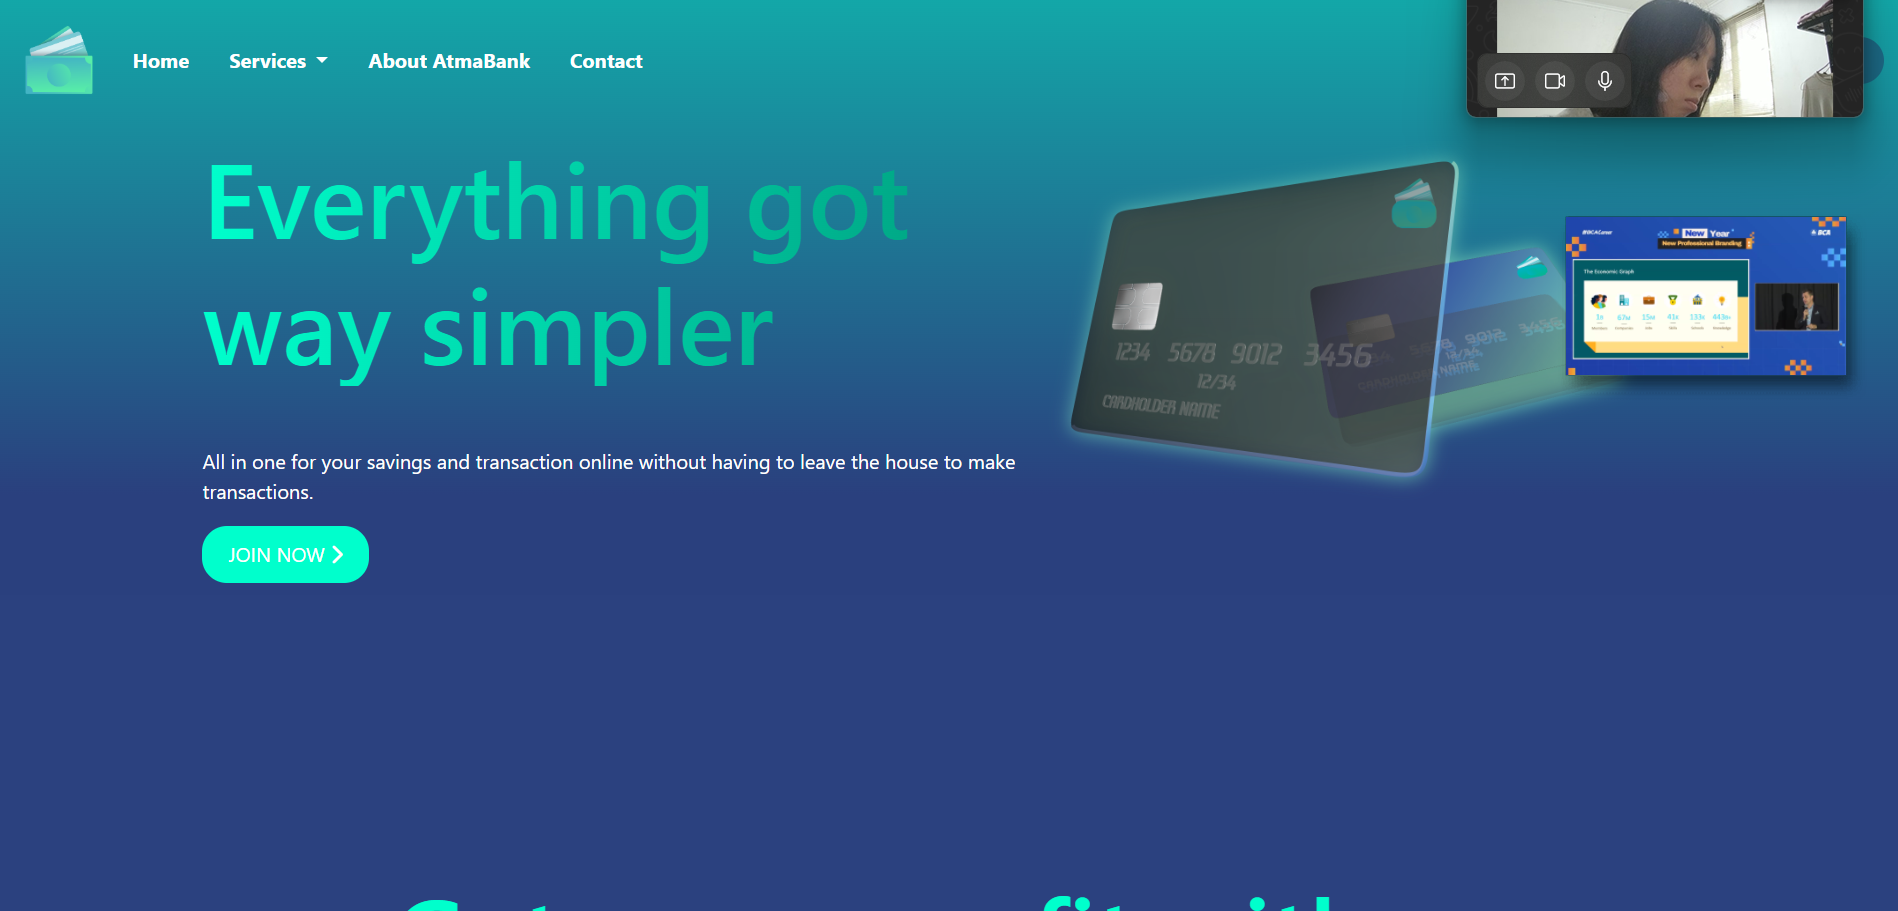
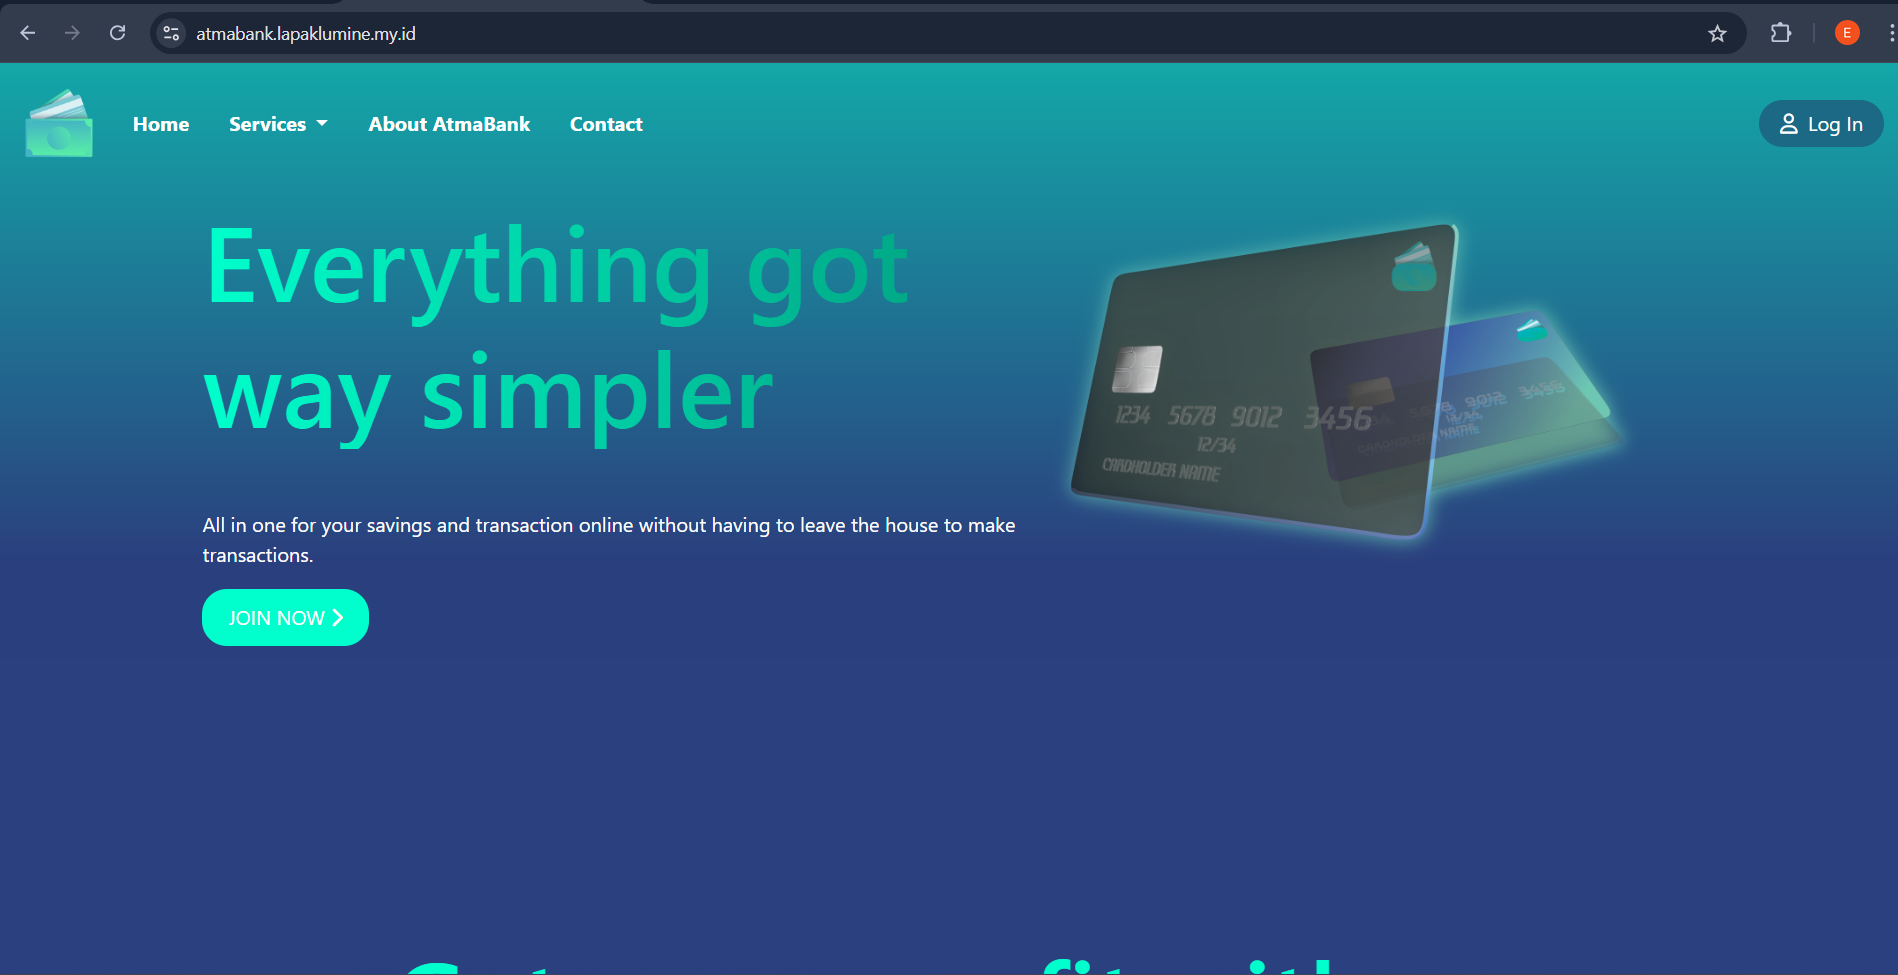
update Readme

diff --git a/README.md b/README.md
@@ -13,4 +13,16 @@ Designed and developed a responsive website for AtmaBank, featuring seamless tra
 </ul>
 
 ### User Interface
+![home](public/untukReadme/home.png)
+![login](public/untukReadme/login.png)
+![profile](public/untukReadme/profile.png)
+![tf1](public/untukReadme/tf1.png)
+![tf2](public/untukReadme/tf2.png)
+![loan](public/untukReadme/loan.png)
+![loanDtl](public/untukReadme/loanDtl.png)
+![history](public/untukReadme/history.png)
+
+### Admin Interface
+![admDash](public/untukReadme/admDash.png)
+![admUsr](public/untukReadme/admUsr.png)
 
